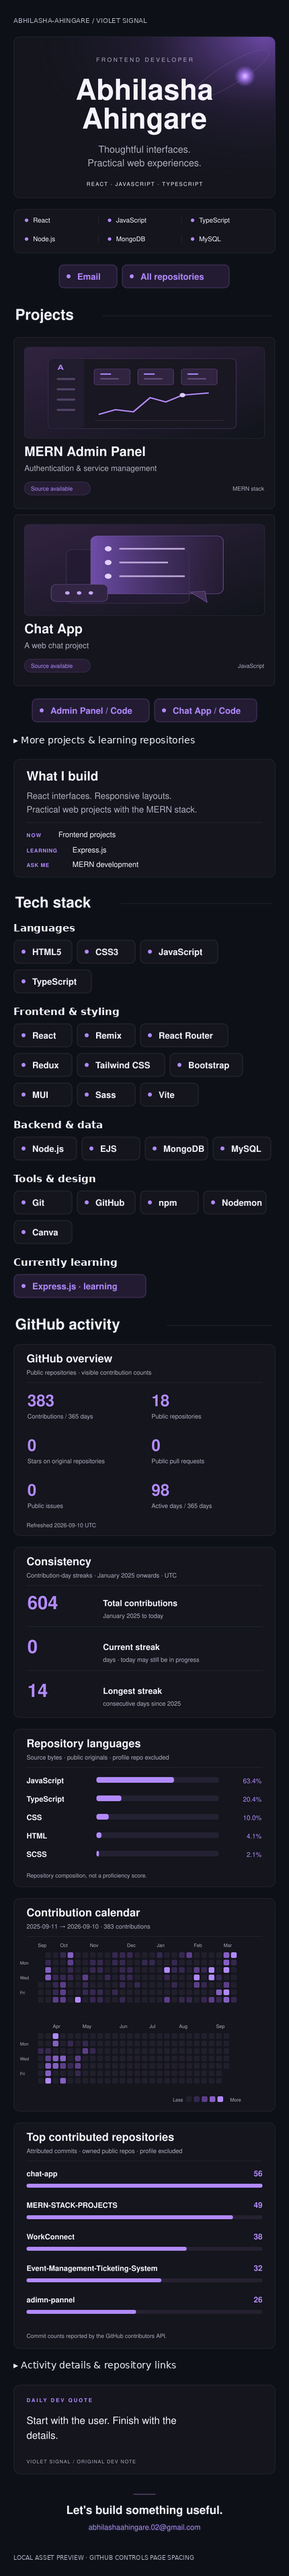
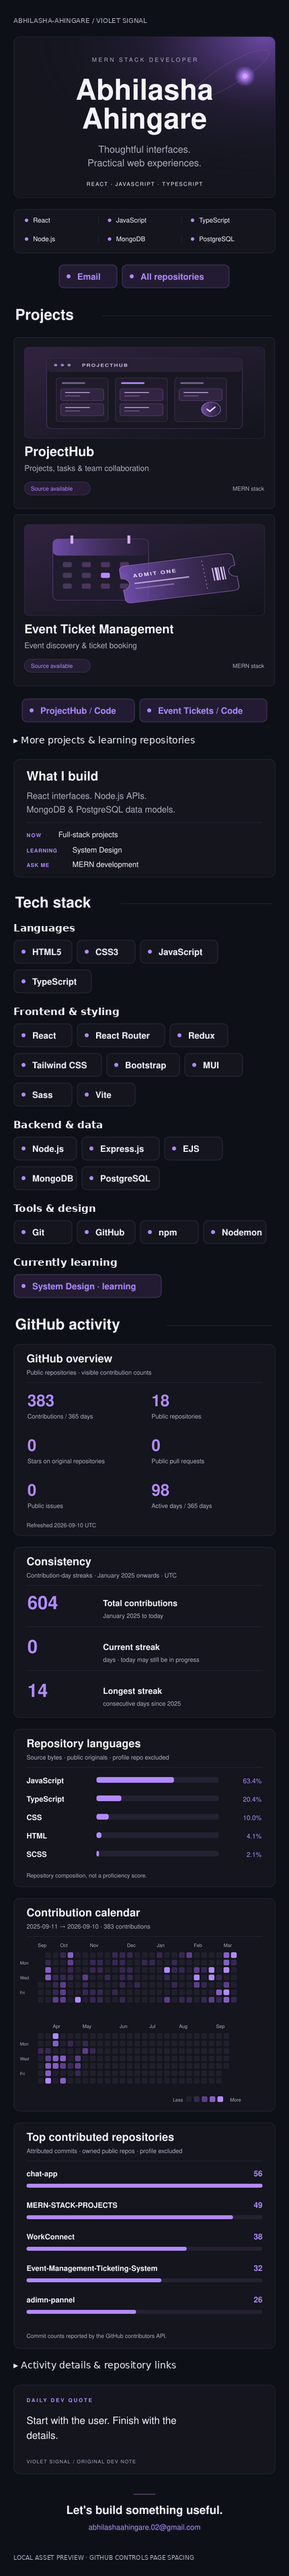
Add files via upload

diff --git a/scripts/build_theme.py b/scripts/build_theme.py
@@ -9,9 +9,9 @@ USER = 'Abhilasha-Ahingare'
 EMAIL = 'abhilashaahingare.02@gmail.com'
 TECH = {
     'Languages': [('html5','HTML5'),('css3','CSS3'),('javascript','JavaScript'),('typescript','TypeScript')],
-    'Frontend & styling': [('react','React'),('remix','Remix'),('react-router','React Router'),('redux','Redux'),('tailwindcss','Tailwind CSS'),('bootstrap','Bootstrap'),('mui','MUI'),('sass','Sass'),('vite','Vite')],
-    'Backend & data': [('nodejs','Node.js'),('ejs','EJS'),('mongodb','MongoDB'),('mysql','MySQL')],
-    'Tools & design': [('git','Git'),('github','GitHub'),('npm','npm'),('nodemon','Nodemon'),('canva','Canva')],
+    'Frontend & styling': [('react','React'),('react-router','React Router'),('redux','Redux'),('tailwindcss','Tailwind CSS'),('bootstrap','Bootstrap'),('mui','MUI'),('sass','Sass'),('vite','Vite')],
+    'Backend & data': [('nodejs','Node.js'),('express','Express.js'),('ejs','EJS'),('mongodb','MongoDB'),('postgresql','PostgreSQL')],
+    'Tools & design': [('git','Git'),('github','GitHub'),('npm','npm'),('nodemon','Nodemon')],
 }
 
 def write(name, value):
@@ -36,7 +36,7 @@ def hero(mobile=False):
     if mobile:
         body += '<ellipse cx="496" cy="87" rx="103" ry="24" transform="rotate(-31 496 87)" fill="none" stroke="#83649e" stroke-opacity=".45"/>'
         body += '<circle cx="530" cy="91" r="24" fill="url(#spark)"/><circle cx="530" cy="91" r="5" fill="#cda8ff"/>'
-        body += text(300,58,'FRONTEND DEVELOPER',13,MUTED,500,'middle',letter_spacing=4)
+        body += text(300,58,'MERN STACK DEVELOPER',13,MUTED,500,'middle',letter_spacing=4)
         body += text(300,145,'Abhilasha',66,TEXT,700,'middle')
         body += text(300,211,'Ahingare',66,TEXT,700,'middle')
         body += text(300,266,'Thoughtful interfaces.',22,MUTED,400,'middle')
@@ -45,7 +45,7 @@ def hero(mobile=False):
     else:
         body += '<ellipse cx="840" cy="130" rx="130" ry="25" transform="rotate(-30 840 130)" fill="none" stroke="#9473b7" stroke-opacity=".45"/>'
         body += '<circle cx="885" cy="134" r="25" fill="url(#spark)"/><circle cx="885" cy="134" r="6" fill="#cda8ff"/>'
-        body += text(500,82,'FRONTEND DEVELOPER',13,MUTED,500,'middle',letter_spacing=5)
+        body += text(500,82,'MERN STACK DEVELOPER',13,MUTED,500,'middle',letter_spacing=5)
         body += text(500,162,'Abhilasha Ahingare',64,TEXT,700,'middle')
         body += text(500,210,'Thoughtful interfaces. Practical web experiences.',22,MUTED,400,'middle')
         body += text(500,255,'REACT  ·  JAVASCRIPT  ·  TYPESCRIPT',13,TEXT,400,'middle',letter_spacing=2.5)
@@ -54,11 +54,11 @@ def hero(mobile=False):
         body += line(38,195,66,195,'#5b536b',2)
         for i,label in enumerate(['SIMPLE','IDEAS','BETTER','SOFTWARE']):
             body += text(962,228+i*15,label,8,MUTED,400,'end',letter_spacing=2)
-    return svg(w,h,body,'Abhilasha Ahingare — Frontend Developer','Thoughtful interfaces. Practical web experiences. React, JavaScript and TypeScript.')
+    return svg(w,h,body,'Abhilasha Ahingare — MERN Stack Developer','Thoughtful interfaces. Practical web experiences. React, JavaScript and TypeScript.')
 
 def core_stack(mobile=False):
     w,h=(600,102) if mobile else (1000,64)
-    labels=['React','JavaScript','TypeScript','Node.js','MongoDB','MySQL']
+    labels=['React','JavaScript','TypeScript','Node.js','MongoDB','PostgreSQL']
     body=''
     for i,label in enumerate(labels):
         cols=3 if mobile else 6
@@ -78,33 +78,40 @@ def section(title, caption='', mobile=False):
 def project_art(kind):
     body='''<defs><linearGradient id="projectLight" x1="0" y1="0" x2="1" y2="1"><stop stop-color="#312340"/><stop offset="1" stop-color="#11141b"/></linearGradient><linearGradient id="glass"><stop stop-color="#7652b6" stop-opacity=".9"/><stop offset="1" stop-color="#352447" stop-opacity=".4"/></linearGradient></defs>'''
     body+=rect(0,0,430,213,'url(#projectLight)',BORDER,9)
-    if kind=='admin':
-        body+=rect(43,27,336,163,'#191721','#493763',9)
-        body+=rect(43,27,64,163,'#211c2e','none',9)
-        body+=text(59,53,'A',16,ACCENT,700)
-        for yy in [72,96,120,144]:body+=rect(58,yy,33,5,'#514265','none',2)
+    if kind=='projecthub':
+        body+=rect(40,26,350,164,'#191721','#493763',9)
+        body+=rect(40,26,350,32,'#282034','none',9)
+        for xx in [56,68,80]:body+=f'<circle cx="{xx}" cy="42" r="3" fill="#9a7ec0"/>'
+        body+=text(103,46,'PROJECTHUB',10,'#cbb8e8',600,letter_spacing=1.5)
         for i in range(3):
-            xx=125+i*78
-            body+=rect(xx,51,64,37,'#302440','#594075',5)
-            body+=line(xx+11,63,xx+30,63,ACCENT,3)+line(xx+11,74,xx+44,74,'#68517f',3)
-        body+='<path d="M133 157L163 146 195 151 225 118 253 128 283 112 330 107" fill="none" stroke="#b28aff" stroke-width="3"/>'
-        body+=line(126,171,356,171,'#403448')
-        body+='<circle cx="283" cy="112" r="5" fill="#dec8ff"/>'
+            xx=57+i*106
+            body+=rect(xx,72,93,102,'#211c2c','#3b304a',6)
+            body+=rect(xx+10,82,42,4,ACCENT if i==1 else '#756187','none',2)
+            for j in range(2 if i<2 else 1):
+                yy=97+j*35
+                body+=rect(xx+8,yy,77,28,'#322541','#57406f',5)
+                body+=line(xx+16,yy+9,xx+60,yy+9,'#c0a7dd',2)
+                body+=line(xx+16,yy+17,xx+43,yy+17,'#715985',2)
+        body+='<circle cx="334" cy="145" r="17" fill="url(#glass)" stroke="#9772c7"/>'
+        body+='<path d="M327 145L332 150 341 140" fill="none" stroke="#e2cfff" stroke-width="3" stroke-linecap="round" stroke-linejoin="round"/>'
     else:
-        body+=rect(75,59,220,125,'#221b31','#423352',12)
-        body+=rect(119,27,237,135,'url(#glass)','#7356a0',12)
-        body+='<path d="M297 158L327 182 323 156Z" fill="#443056" stroke="#7356a0"/>'
-        for i in range(3):
-            yy=57+i*32
-            body+=f'<circle cx="150" cy="{yy}" r="6" fill="#e2cfff"/>'
-            body+=line(170,yy,287-(i%2)*30,yy,'#bba3d6',4)
-        body+=rect(48,140,101,40,'#322544','#69488d',10)
-        for xx in [77,98,119]:body+=f'<circle cx="{xx}" cy="160" r="4" fill="#c6a5f3"/>'
+        body+=rect(51,34,171,143,'#211b2e','#594075',10)
+        body+=rect(51,34,171,39,'url(#glass)','none',10)
+        for xx in [85,187]:body+=line(xx,26,xx,45,'#ceafea',5)
+        for row in range(3):
+            for col in range(4):
+                body+=rect(69+col*34,88+row*25,16,12,'#b28aff' if (row,col)==(1,2) else '#49375c','none',3)
+        body+='<g transform="rotate(-9 279 131)"><path d="M186 82H370Q381 82 381 93V111A13 13 0 0 0 381 137V158Q381 169 370 169H186Q175 169 175 158V137A13 13 0 0 0 175 111V93Q175 82 186 82Z" fill="url(#glass)" stroke="#9871c2"/>'
+        body+='<path d="M324 91V160" stroke="#a78abb" stroke-dasharray="4 5"/>'
+        body+=text(197,111,'ADMIT ONE',11,'#eadbff',700,letter_spacing=2)
+        body+=line(197,125,296,125,'#bba3d6',3)+line(197,137,267,137,'#8a6aab',3)
+        for i,ww in enumerate([2,4,2,3,2]):body+=rect(339+i*5,111,ww,30,'#d6bdf4','none',0)
+        body+='</g>'
     return body.replace('projectLight',kind+'Light').replace('glass',kind+'Glass')
 
 def projects(mobile=False):
     w,h=(600,810) if mobile else (1000,401)
-    items=[('MERN Admin Panel','Authentication & service management','MERN stack','admin'),('Chat App','A web chat project','JavaScript','chat')]
+    items=[('ProjectHub','Projects, tasks & team collaboration','MERN stack','projecthub'),('Event Ticket Management','Event discovery & ticket booking','MERN stack','events')]
     body=''
     for i,(name,desc,stack,kind) in enumerate(items):
         x,y=(1,i*405+1) if mobile else (i*511+1,1)
@@ -112,28 +119,28 @@ def projects(mobile=False):
         card=rect(0,0,cw-1,391,PANEL,BORDER,10)
         scale=(cw-48)/430
         card+=f'<g transform="translate(24 22) scale({scale:.4f} {(.98 if mobile else .98):.4f})">{project_art(kind)}</g>'
-        card+=text(24,271,name,30,TEXT,700)+text(24,305,desc,18,MUTED)
+        card+=text(24,271,name,28 if kind=='events' else 30,TEXT,700)+text(24,305,desc,18,MUTED)
         card+=rect(24,330,151,30,'#261d35','#443255',15)+text(39,350,'Source available',13,ACCENT,500)
         card+=text(cw-25,350,stack,13,MUTED,400,'end')
         body+=f'<g transform="translate({x} {y})">{card}</g>'
-    return svg(w,h,body,'Selected projects: MERN Admin Panel and Chat App','Project illustrations are decorative, not application screenshots. Repository links follow below.',False)
+    return svg(w,h,body,'Selected projects: ProjectHub and Event Ticket Management System','Project illustrations are decorative, not application screenshots. Repository links follow below.',False)
 
 def about(mobile=False):
     w,h=(600,270) if mobile else (1000,232)
     body=text(30,49,'What I build',29,TEXT,700)
     if mobile:
-        lines=['React interfaces. Responsive layouts.','Practical web projects with the MERN stack.']
+        lines=['React interfaces. Node.js APIs.','MongoDB & PostgreSQL data models.']
         for i,value in enumerate(lines):body+=text(30,91+i*31,value,20,MUTED)
         body+=line(30,145,570,145)
-        body+=text(30,178,'NOW',12,ACCENT,700,letter_spacing=2)+text(103,178,'Frontend projects',17,TEXT)
-        body+=text(30,213,'LEARNING',12,ACCENT,700,letter_spacing=1)+text(135,213,'Express.js',17,TEXT)
+        body+=text(30,178,'NOW',12,ACCENT,700,letter_spacing=2)+text(103,178,'Full-stack projects',17,TEXT)
+        body+=text(30,213,'LEARNING',12,ACCENT,700,letter_spacing=1)+text(135,213,'System Design',17,TEXT)
         body+=text(30,246,'ASK ME',12,ACCENT,700,letter_spacing=1)+text(135,246,'MERN development',17,TEXT)
     else:
-        body+=text(30,92,'React interfaces. Responsive layouts. Practical web projects.',23,MUTED)
+        body+=text(30,92,'React interfaces. Node.js APIs. MongoDB & PostgreSQL data models.',23,MUTED)
         body+=line(30,118,970,118)
-        for x,label,value in [(30,'NOW','Frontend projects'),(360,'LEARNING','Express.js'),(690,'ASK ME','MERN development')]:
+        for x,label,value in [(30,'NOW','Full-stack projects'),(360,'LEARNING','System Design'),(690,'ASK ME','MERN development')]:
             body+=text(x,154,label,12,ACCENT,700,letter_spacing=2)+text(x,190,value,20,TEXT,500)
-    return svg(w,h,body,'About Abhilasha','Frontend developer from India. Working on frontend projects, learning Express.js, and happy to discuss MERN development.')
+    return svg(w,h,body,'About Abhilasha','MERN Stack Developer from India. Building full-stack projects, learning System Design, and happy to discuss MERN development.')
 
 def footer(mobile=False):
     w,h=(600,149) if mobile else (1000,137)
@@ -147,17 +154,17 @@ def picture(name,alt,width='100%'):
 
 def make_readme():
     parts=[f'<!-- Violet Signal / Design 29. Profile: {USER}. Edit scripts/build_theme.py to regenerate this file. -->',
-           picture('hero','Abhilasha Ahingare — Frontend Developer. Thoughtful interfaces. Practical web experiences.'),
-           picture('core-stack','React, JavaScript, TypeScript, Node.js, MongoDB and MySQL'),
+           picture('hero','Abhilasha Ahingare — MERN Stack Developer. Thoughtful interfaces. Practical web experiences.'),
+           picture('core-stack','React, JavaScript, TypeScript, Node.js, MongoDB and PostgreSQL'),
            '<p align="center">\n  <a href="mailto:'+EMAIL+'"><img src="./assets/badges/email.svg" height="36" alt="Email Abhilasha"></a>\n  <a href="https://github.com/'+USER+'?tab=repositories"><img src="./assets/badges/repositories.svg" height="36" alt="Browse all repositories"></a>\n</p>',
-           picture('section-projects','Selected projects'),picture('projects','MERN Admin Panel — authentication and service management. Chat App — a web chat project.'),
-           '<p align="center">\n  <a href="https://github.com/'+USER+'/adimn-pannel"><img src="./assets/badges/admin-source.svg" height="36" alt="MERN Admin Panel repository"></a>\n  <a href="https://github.com/'+USER+'/chat-app"><img src="./assets/badges/chat-source.svg" height="36" alt="Chat App repository"></a>\n</p>',
+           picture('section-projects','Selected projects'),picture('projects','ProjectHub — projects, tasks and team collaboration. Event Ticket Management System — event discovery and ticket booking.'),
+           '<p align="center">\n  <a href="https://github.com/'+USER+'/project-management-system"><img src="./assets/badges/projecthub-source.svg" height="36" alt="ProjectHub repository"></a>\n  <a href="https://github.com/'+USER+'/Event-Management-Ticketing-System"><img src="./assets/badges/event-source.svg" height="36" alt="Event Ticket Management System repository"></a>\n</p>',
            '<details>\n<summary>More projects &amp; learning repositories</summary>\n\n'+ '\n'.join(f'- [{label}](https://github.com/{USER}/{slug})' for slug,label in [('Event-Management-Ticketing-System','Event Management & Ticketing System'),('REACT-PROJECT','React Projects'),('MERN-STACK-PROJECTS','MERN Stack Projects'),('HTML_CSS_JAVASCRIPT_PROJECTS','HTML, CSS & JavaScript Projects'),('HTML-CSS-PROJECTS','HTML & CSS Projects'),('JAVASCRIPT-MINI-FUNCTIONALITY-PROJECT-S','JavaScript Mini Projects')])+'\n\n</details>',
-           picture('about','About me: frontend developer from India; building frontend projects; learning Express.js; ask me about MERN development.'),
+           picture('about','About me: MERN Stack Developer from India; building full-stack projects; learning System Design; ask me about MERN development.'),
            picture('section-stack','Tech stack')]
     for group,items in TECH.items():
         parts.append(f'**{group}**\n\n<p>\n'+'\n'.join(f'  <img src="./assets/badges/{slug}.svg" height="36" alt="{label}">' for slug,label in items)+'\n</p>')
-    parts.append('**Currently learning**\n\n<img src="./assets/badges/express-learning.svg" height="36" alt="Learning Express.js">')
+    parts.append('**Currently learning**\n\n<img src="./assets/badges/system-design-learning.svg" height="36" alt="Learning System Design">')
     parts.append(picture('section-activity','GitHub activity'))
     for name,alt in [('overview','Public GitHub overview'),('streak','Current and longest contribution streaks'),('languages','Languages by code bytes across public repositories'),('calendar','Violet contribution calendar — daily counts available in the data folder'),('top-repos','Top contributed repositories — GitHub-attributed commits in owned public repositories')]:
         parts.append(picture('metrics/'+name,alt))
@@ -174,7 +181,7 @@ def main():
         for slug,label in [('projects','Projects'),('stack','Tech stack'),('activity','GitHub activity')]:write('section-'+slug+suffix+'.svg',section(label,mobile=mobile))
     for items in TECH.values():
         for slug,label in items:write('badges/'+slug+'.svg',badge(label))
-    for slug,label in [('email','Email'),('repositories','All repositories'),('admin-source','Admin Panel / Code'),('chat-source','Chat App / Code'),('express-learning','Express.js · learning')]:write('badges/'+slug+'.svg',badge(label,True))
+    for slug,label in [('email','Email'),('repositories','All repositories'),('projecthub-source','ProjectHub / Code'),('event-source','Event Tickets / Code'),('system-design-learning','System Design · learning')]:write('badges/'+slug+'.svg',badge(label,True))
     if '--assets-only' not in sys.argv:
         (ROOT/'README.md').write_text(make_readme(),encoding='utf-8')
 

diff --git a/VALIDATION.md b/VALIDATION.md
@@ -1,37 +1,48 @@
 # Validation record
 
-Validated locally on **2026-09-10** for **Abhilasha-Ahingare**.
+Updated and validated locally on **2026-09-17** for **Abhilasha-Ahingare**.
 
 ## Completed
 
-- The supplied Design 29 / Violet Signal image was used as the visual reference.
-- The public profile API and all 18 public repository entries were retrieved.
-- Featured repository names and eight project links were checked against that list.
-- MERN Admin Panel's repository README was read before describing its scope.
-- All 22 supplied technologies are represented; Express.js is separately marked
-  as learning. Name, email and username use Abhilasha's details.
-- 55 local SVG assets parsed as XML and rendered to PNG with Sharp.
+- The existing Design 29 / Violet Signal palette and layout were retained.
+- MERN Stack Developer is visible in both hero sizes. About text now describes
+  full-stack work; PostgreSQL replaces the previous relational database label.
+- ProjectHub and Event Ticket Management are the featured cards, with matching
+  violet illustrations and repository buttons.
+- ProjectHub was identified by its public `apps/web/index.html` title and
+  frontend branding in `project-management-system`. Both featured repositories
+  appear in the 19-entry public repository list retrieved on 2026-09-17.
+- Source trees and package manifests were inspected to support the brief project
+  descriptions and MERN labels. Repository links use their actual public names.
+- The stack contains 21 badges. Express.js is under Backend & data, and
+  System Design is the learning focus. The two requested removals are absent.
+- The README, desktop/mobile SVGs and generator agree on the updated content.
+  Six obsolete badge files were removed from the delivered package.
+- 54 local SVG assets parsed as XML and rendered to PNG with Sharp.
 - SVG IDs are unique within each file; SVGs contain no scripts or foreignObject.
-- All 57 local README asset/file references resolve.
-- All 42 README img elements have non-empty alternative text.
-- README HTML contains no scripts, inline CSS, event handlers, class or id attributes.
-- The GitHub Actions YAML parsed successfully and includes manual, push and
-  scheduled triggers with contents-write permission.
-- The refresh generator completed against actual public data: 618 historical
-  dates validated, 365 dates in the displayed window, 383 contributions.
-- All 15 focused metrics tests passed, without skips, including calendar parsing,
-  streak boundaries, conflicting duplicates, contributor pagination, username
-  case handling, filtering, empty repositories, and invalid count rejection.
-- Desktop and mobile asset previews were generated. Hero and project cards,
-  mobile hero, contribution calendar and repository ranking were visually inspected.
+- All 56 local README asset/file references resolve.
+- Twenty metrics/data/automation-related files are byte-for-byte unchanged,
+  including the metrics renderer, tests, workflow, theme palette and snapshot.
+- Desktop and mobile previews were regenerated and inspected for fit, readable
+  labels and the requested updated details.
 - The completed ZIP was opened and checked for expected root files, assets,
   workflow and data files, with no corrupt members or bytecode caches.
 
+## Existing metrics baseline
+
+Metrics were intentionally preserved during this content update. The original
+2026-09-10 validation recorded 618 historical dates, a 365-day display window,
+383 contributions, successful workflow YAML parsing and all 15 metrics tests
+passing. Those metrics tests were not rerun for this content-only update.
+The included snapshot retains its original timestamp; the repository workflow
+fetches newer activity when it runs.
+
 ## Limits
 
-The deliverable has **not** been uploaded to Abhilasha's GitHub account, and its
-workflow has not run in that account. No live GitHub rendering or authenticated
-browser check is claimed. The local environment has no installed Chromium browser.
+This updated package has **not** been published to Abhilasha's GitHub account
+from this session. The user's screenshots show the previous deployed version;
+the new assets were checked locally. No authenticated GitHub rendering or
+workflow execution is claimed.
 
 PNG previews composite the rendered SVG assets with representative Markdown
 text and spacing; GitHub controls the final outer layout, link colors and fonts.

diff --git a/README.md b/README.md
@@ -7,7 +7,7 @@
 
 <picture>
   <source media="(max-width: 600px)" srcset="./assets/core-stack-mobile.svg">
-  <img src="./assets/core-stack.svg" width="100%" alt="React, JavaScript, TypeScript, Node.js, MongoDB and MySQL">
+  <img src="./assets/core-stack.svg" width="100%" alt="React, JavaScript, TypeScript, Node.js, MongoDB and PostgreSQL">
 </picture>
 
 <p align="center">
@@ -22,12 +22,12 @@
 
 <picture>
   <source media="(max-width: 600px)" srcset="./assets/projects-mobile.svg">
-  <img src="./assets/projects.svg" width="100%" alt="MERN Admin Panel — authentication and service management. Chat App — a web chat project.">
+  <img src="./assets/projects.svg" width="100%" alt="ProjectHub — projects, tasks and team collaboration. Event Ticket Management System — event discovery and ticket booking.">
 </picture>
 
 <p align="center">
-  <a href="https://github.com/Abhilasha-Ahingare/adimn-pannel"><img src="./assets/badges/admin-source.svg" height="36" alt="MERN Admin Panel repository"></a>
-  <a href="https://github.com/Abhilasha-Ahingare/chat-app"><img src="./assets/badges/chat-source.svg" height="36" alt="Chat App repository"></a>
+  <a href="https://github.com/Abhilasha-Ahingare/project-management-system"><img src="./assets/badges/projecthub-source.svg" height="36" alt="ProjectHub repository"></a>
+  <a href="https://github.com/Abhilasha-Ahingare/Event-Management-Ticketing-System"><img src="./assets/badges/event-source.svg" height="36" alt="Event Ticket Management System repository"></a>
 </p>
 
 <details>
@@ -44,7 +44,7 @@
 
 <picture>
   <source media="(max-width: 600px)" srcset="./assets/about-mobile.svg">
-  <img src="./assets/about.svg" width="100%" alt="About me: frontend developer from India; building frontend projects; learning Express.js; ask me about MERN development.">
+  <img src="./assets/about.svg" width="100%" alt="About me: MERN Stack Developer from India; building full-stack projects; learning System Design; ask me about MERN development.">
 </picture>
 
 <picture>
@@ -65,7 +65,6 @@
 
 <p>
   <img src="./assets/badges/react.svg" height="36" alt="React">
-  <img src="./assets/badges/remix.svg" height="36" alt="Remix">
   <img src="./assets/badges/react-router.svg" height="36" alt="React Router">
   <img src="./assets/badges/redux.svg" height="36" alt="Redux">
   <img src="./assets/badges/tailwindcss.svg" height="36" alt="Tailwind CSS">
@@ -79,9 +78,10 @@
 
 <p>
   <img src="./assets/badges/nodejs.svg" height="36" alt="Node.js">
+  <img src="./assets/badges/express.svg" height="36" alt="Express.js">
   <img src="./assets/badges/ejs.svg" height="36" alt="EJS">
   <img src="./assets/badges/mongodb.svg" height="36" alt="MongoDB">
-  <img src="./assets/badges/mysql.svg" height="36" alt="MySQL">
+  <img src="./assets/badges/postgresql.svg" height="36" alt="PostgreSQL">
 </p>
 
 **Tools & design**
@@ -91,12 +91,11 @@
   <img src="./assets/badges/github.svg" height="36" alt="GitHub">
   <img src="./assets/badges/npm.svg" height="36" alt="npm">
   <img src="./assets/badges/nodemon.svg" height="36" alt="Nodemon">
-  <img src="./assets/badges/canva.svg" height="36" alt="Canva">
 </p>
 
 **Currently learning**
 
-<img src="./assets/badges/express-learning.svg" height="36" alt="Learning Express.js">
+<img src="./assets/badges/system-design-learning.svg" height="36" alt="Learning System Design">
 
 <picture>
   <source media="(max-width: 600px)" srcset="./assets/section-activity-mobile.svg">

diff --git a/SETUP.md b/SETUP.md
@@ -23,6 +23,12 @@ aur `assets` ek hi level par hone chahiye. Sirf README paste karne se local imag
 load nahi hongi. Purani README ko replace karo; unrelated repository files ko
 delete karne ki zaroorat nahi hai.
 
+**Agar purana Violet Signal package pehle se laga hua hai:** is ZIP ke andar
+ka `README.md`, poora `assets` folder aur `scripts/build_theme.py` zaroor replace
+karo. Naam, role, projects aur stack ka visible text SVG images mein hai;
+sirf README ke `alt` text ko badalne se images nahi badlengi. Naya generator
+upload karne se daily refresh bhi updated details ko hi banayega.
+
 The profile repository must be public and its name must match the username.
 See [GitHub's profile README requirements](https://docs.github.com/en/account-and-profile/how-tos/profile-customization/managing-your-profile-readme)
 and [upload instructions](https://docs.github.com/en/repositories/working-with-files/managing-files/adding-a-file-to-a-repository).
@@ -100,8 +106,9 @@ only when you want to rebuild the template.
 ## What the package includes
 
 - Hero, project illustrations, two-column desktop projects, stacked mobile cards.
-- All 22 technologies from the supplied README, plus an explicitly labelled
-  **Express.js · learning** badge.
+- 21 technology badges, with PostgreSQL and Express.js in Backend & data,
+  plus an explicitly labelled **System Design · learning** badge.
+- MERN Stack Developer role in both hero sizes and the About section.
 - About section, email and repository links; no invented LinkedIn or portfolio URL.
 - Real overview, streaks, language composition, violet contribution grid and
   top contributed repository ranking.
@@ -109,10 +116,12 @@ only when you want to rebuild the template.
 - Daily development quote and a matching optional profile-view counter.
 - Local SVG files and a standard-library Python refresh workflow.
 
-The featured projects are **MERN Admin Panel** (`adimn-pannel`) and **Chat App**
-(`chat-app`), both found in Abhilasha's public repositories. Their illustrations
-are decorative artwork, not screenshots. Source links are provided; application
-functionality and deployment health have not been audited.
+The featured projects are **ProjectHub** (`project-management-system`) and
+**Event Ticket Management System** (`Event-Management-Ticketing-System`).
+ProjectHub's branding was verified in its public frontend source; both repository
+links and their public source trees were checked on 2026-09-17. Their illustrations
+are decorative artwork, not screenshots. Application functionality and deployment
+health have not been audited.
 
 ## GitHub styling limits
 
